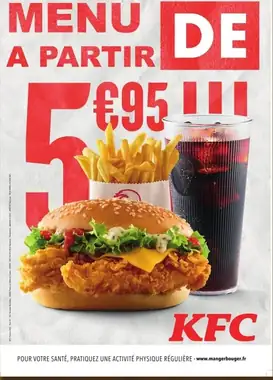
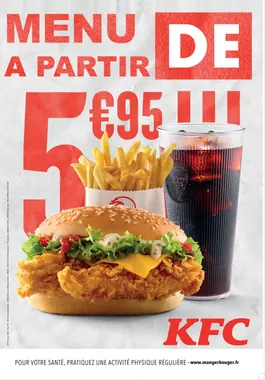
Mise à jour du portfolio : CoTrajet, Flav'ours, affiche KFC, chargement de l'intro
- CoTrajet : écran de l'appli en fond de carte et écrans de la maquette Figma
- Flav'ours : présentoir et barre ajoutés
- Affiche KFC recadrée avec plus d'espace en haut
- Intro : modules 3D préchargés, bouton affiché seulement quand l'animation est prête

Claude-Session: https://claude.ai/code/session_01Y7SZ1997JbTfstZ2EQgUPZ

diff --git a/index.html b/index.html
@@ -114,6 +114,8 @@ h1,h2,h3{font-family:'Bodoni Moda',Didot,'Times New Roman',serif;font-style:ital
 .proto b{font:italic 700 30px/1 'Bodoni Moda',serif}
 .proto .pnote{font-size:14px;line-height:1.45;color:var(--mute)}
 .proto .pgo{margin-top:auto;font-weight:600;color:var(--pink)}
+.proto.bgimg{justify-content:flex-end;overflow:hidden;background:linear-gradient(180deg,#0e081f00 50%,#0e081fc4 70%,#0e081ff2 86%),var(--bgi) center top/cover no-repeat,#1a1236!important}
+.proto.bgimg .lbl{margin-top:auto}.proto.bgimg .pnote{display:none}.proto.bgimg .pgo{margin-top:6px}
 .card{padding:20px;display:flex!important;flex-direction:column;gap:10px;height:auto!important;min-height:var(--h);background:#f7eef3!important;color:#1a1430}
 .card b{font:italic 700 28px/1 'Bodoni Moda',serif}
 .card p{margin:0;font-size:14.5px;line-height:1.5;color:#4a4060}
@@ -384,10 +386,18 @@ html.introlock,html.introlock body{overflow:hidden}
 .intro:not(.has3d):not(.nofx) .i-sky,.intro:not(.has3d):not(.nofx) .i-ground,.intro:not(.has3d):not(.nofx) .i-car,.intro:not(.has3d):not(.nofx) .i-lines{visibility:hidden}
 .intro:not(.has3d):not(.nofx){background:radial-gradient(120% 80% at 50% 38%,#2a1048 0%,#120a2a 55%,#07050f 100%)}
 .i-3d{position:absolute;inset:0;width:100%;height:100%;display:block;z-index:1;opacity:0;transition:opacity .9s ease}
+.i-go,.i-hint,.i-skip{transition:opacity .6s ease .35s,transform .6s ease .35s}
+.intro:not(.has3d):not(.nofx):not(.slow) .i-go,.intro:not(.has3d):not(.nofx):not(.slow) .i-hint,.intro:not(.has3d):not(.nofx):not(.slow) .i-skip{opacity:0;transform:translateY(8px);pointer-events:none;visibility:hidden}
+.i-load{position:absolute;left:50%;bottom:22%;transform:translateX(-50%);display:flex;flex-direction:column;align-items:center;gap:10px;font:400 10px/1 Michroma,sans-serif;color:#f7eef399;letter-spacing:.08em;transition:opacity .5s;pointer-events:none;z-index:4}
+.i-load i{display:block;width:120px;height:2px;border-radius:2px;background:#f7eef322;overflow:hidden;position:relative}
+.i-load i::after{content:"";position:absolute;inset:0;width:40%;background:linear-gradient(90deg,#ff8cbf,#6fe3d6);animation:iload 1.1s ease-in-out infinite}
+@keyframes iload{0%{transform:translateX(-100%)}100%{transform:translateX(260%)}}
+.intro.has3d .i-load,.intro.nofx .i-load,.intro.slow .i-load{opacity:0}
 .intro.has3d .i-3d{opacity:1}
 .intro.has3d .i-sky,.intro.has3d .i-ground,.intro.has3d .i-car,.intro.has3d .i-lines{visibility:hidden}
 .intro.has3d .i-text{text-shadow:0 2px 20px #0b0820}
 </style></head><body>
+<link rel="preconnect" href="https://cdn.jsdelivr.net" crossorigin>
 <script type="importmap">{"imports":{"three":"https://cdn.jsdelivr.net/npm/three@0.160.0/build/three.module.min.js","three/addons/":"https://cdn.jsdelivr.net/npm/three@0.160.0/examples/jsm/"}}</script>
 <div class="intro" id="intro" role="dialog" aria-label="Page d'entrée">
 <div class="i-sky"><div class="i-sun"><i></i></div><div class="i-mtn e"></div><div class="i-mtn b"></div></div>
@@ -411,7 +421,7 @@ html.introlock,html.introlock body{overflow:hidden}
 </svg></div>
 <div class="i-text"><span class="lbl">Portfolio</span><h1>Tonio Cocco</h1><p>Communication visuelle et réalisation graphique</p>
 <button class="i-go" id="igo">Aller au portfolio <b><svg viewBox="0 0 24 24" fill="none" stroke="currentColor" stroke-width="2.4" stroke-linecap="round"><path d="M5 12h14M13 6l6 6-6 6"/></svg></b></button><span class="i-hint">ou appuyez sur Entrée</span></div>
-<button class="i-skip" id="iskip">Passer l'intro</button><button class="i-snd off" id="isnd" hidden aria-label="Activer ou couper le son de l'intro"><svg viewBox="0 0 24 24" fill="none" stroke="currentColor" stroke-width="1.8" stroke-linecap="round" stroke-linejoin="round" aria-hidden="true"><path d="M4 9v6h4l5 4V5L8 9H4z" fill="currentColor" stroke="none"/><path class="w1" d="M16 9.5a4 4 0 0 1 0 5"/><path class="w2" d="M18.5 7a7.5 7.5 0 0 1 0 10"/><path class="x" d="M16 9l5 6M21 9l-5 6"/></svg><span>Activer le son</span></button>
+<div class="i-load" aria-hidden="true"><i></i>Chargement de l'intro</div><button class="i-skip" id="iskip">Passer l'intro</button><button class="i-snd off" id="isnd" hidden aria-label="Activer ou couper le son de l'intro"><svg viewBox="0 0 24 24" fill="none" stroke="currentColor" stroke-width="1.8" stroke-linecap="round" stroke-linejoin="round" aria-hidden="true"><path d="M4 9v6h4l5 4V5L8 9H4z" fill="currentColor" stroke="none"/><path class="w1" d="M16 9.5a4 4 0 0 1 0 5"/><path class="w2" d="M18.5 7a7.5 7.5 0 0 1 0 10"/><path class="x" d="M16 9l5 6M21 9l-5 6"/></svg><span>Activer le son</span></button>
 </div>
 <script>
 {
@@ -420,9 +430,10 @@ html.introlock,html.introlock body{overflow:hidden}
   const done = () => { it.classList.add('out'); root.classList.remove('introlock'); window.__intro3d?.stop(); setTimeout(() => it.remove(), 800); };
   if (h && h !== 'top') { it.remove(); } else {
     root.classList.add('introlock');
-    { const l = document.createElement('link'); l.rel = 'modulepreload'; l.crossOrigin = ''; l.href = 'https://cdn.jsdelivr.net/npm/three@0.160.0/build/three.module.min.js'; document.head.append(l); import('./intro3d.js').catch(() => it.classList.add('nofx')); setTimeout(() => { if (!it.classList.contains('has3d')) it.classList.add('nofx'); }, 9000); }
+    { const J = 'https://cdn.jsdelivr.net/npm/three@0.160.0/examples/jsm/'; ['https://cdn.jsdelivr.net/npm/three@0.160.0/build/three.module.min.js','intro3d.js',J + 'postprocessing/EffectComposer.js',J + 'postprocessing/RenderPass.js',J + 'postprocessing/UnrealBloomPass.js',J + 'postprocessing/ShaderPass.js',J + 'postprocessing/OutputPass.js',J + 'postprocessing/Pass.js',J + 'postprocessing/MaskPass.js',J + 'shaders/CopyShader.js',J + 'shaders/LuminosityHighPassShader.js',J + 'shaders/OutputShader.js',J + 'geometries/RoundedBoxGeometry.js',J + 'objects/Reflector.js'].forEach(u => { const l = document.createElement('link'); l.rel = 'modulepreload'; l.crossOrigin = ''; l.href = u; document.head.append(l); }); import('./intro3d.js').catch(() => it.classList.add('nofx')); setTimeout(() => { if (!it.classList.contains('has3d')) it.classList.add('slow'); }, 12000); }
     const red = matchMedia('(prefers-reduced-motion: reduce)').matches;
-    const go = () => { if (it.classList.contains('go')) return; if (red) return done(); it.classList.add('go'); const d3 = window.__intro3d; if (d3) d3.nitro(); setTimeout(done, d3 ? 1900 : 1450); };
+    const ready = () => it.classList.contains('has3d') || it.classList.contains('nofx') || it.classList.contains('slow');
+    const go = () => { if (it.classList.contains('go') || !ready()) return; if (red) return done(); it.classList.add('go'); const d3 = window.__intro3d; if (d3) d3.nitro(); setTimeout(done, d3 ? 1900 : 1450); };
     document.getElementById('igo').addEventListener('click', go);
     document.getElementById('iskip').addEventListener('click', done);
     addEventListener('keydown', e => { if (document.getElementById('intro') && (e.key === 'Enter' || e.key === ' ') && !it.classList.contains('go')) { e.preventDefault(); go(); } });
@@ -486,14 +497,14 @@ html.introlock,html.introlock body{overflow:hidden}
 
 <script>
 {
-const AR = {"samourai-pixel":0.667,"samourai-ecran-titre":0.75,"samourai-boss":0.667,"samourai-cochon":0.667,"samourai-champignon":0.667,"samourai-poisson":0.667,"samourai-torii":1.5,"samourai-decor":1.5,"colonel-forest":0.707,"musee-fabi":0.598,"storyboard-banc":1.399,"lyon":1.407,"barret":.707,"croquis":1.452,"demon":.791,"dragon":.791,"embuscade-1":1.415,"embuscade-2":1.415,"embuscade-3":1.415,"embuscade-4":1.415,"embuscade-5":1.415,"embuscade-6":1.415,"flavours":.794,"hypnesia":.71,"indonesie":.502,"kfc":.718,"mclaren":.707,"moodboard-mexique":1.406,"moodboard-musique":1.406,"moodboard-surrealisme-1":1.778,"moodboard-surrealisme-2":1.778,"nebula":.707,"photo":.834,"portrait-crayon":.797,"printemps-culture":.73,"samourai-mockup":.669,"samourai-newsletter-1":.402,"samourai-newsletter-2":.404,"samourai":.791};
+const AR = {"cotrajet-chargement":0.462,"cotrajet-accueil":0.462,"cotrajet-trajets":0.387,"cotrajet-detail":0.317,"cotrajet-conducteur":0.389,"cotrajet-favoris":0.41,"cotrajet-proposer":0.343,"cotrajet-parametres":0.389,"cotrajet-ecran":0.468,"flavours-presentoir":0.988,"flavours-barre":2.18,"samourai-pixel":0.667,"samourai-ecran-titre":0.75,"samourai-boss":0.667,"samourai-cochon":0.667,"samourai-champignon":0.667,"samourai-poisson":0.667,"samourai-torii":1.5,"samourai-decor":1.5,"colonel-forest":0.707,"musee-fabi":0.598,"storyboard-banc":1.399,"lyon":1.407,"barret":.707,"croquis":1.452,"demon":.791,"dragon":.791,"embuscade-1":1.415,"embuscade-2":1.415,"embuscade-3":1.415,"embuscade-4":1.415,"embuscade-5":1.415,"embuscade-6":1.415,"flavours":.794,"hypnesia":.71,"indonesie":.502,"kfc":0.698,"mclaren":.707,"moodboard-mexique":1.406,"moodboard-musique":1.406,"moodboard-surrealisme-1":1.778,"moodboard-surrealisme-2":1.778,"nebula":.707,"photo":.834,"portrait-crayon":.797,"printemps-culture":.73,"samourai-mockup":.669,"samourai-newsletter-1":.402,"samourai-newsletter-2":.404,"samourai":.791};
 const P = {
  nebula:{t:'Nebula',c:'Affiche',x:'Affiche publicitaire · projet BUT MMI, IUT de Béziers',y:'2026',w:"Une affiche publicitaire pour une boisson énergisante fictive, avec un mouvement artistique à choisir : j'ai pris le surréalisme.",h:"Avant d'y parvenir, j'ai d'abord réalisé un moodboard, « Réellement irréel », pour détailler ce mouvement. L'affiche en est la suite logique, et tout le visuel est construit autour de ce thème.",a:"",i:['nebula'],rel:['surrealisme',"Avant l'affiche · étape 1",'Voir le moodboard']},
- flavours:{t:"Flav'ours",c:'Identité visuelle',x:'Projet de groupe · cours de gestion de projet',y:'',w:"",h:"En cours de gestion de projet, nous avons dû concevoir en groupe une barre chocolatée protéinée, en respectant les critères précis d'un commanditaire. De mon côté, je me suis occupé de toute la partie visuelle : j'ai composé la maquette sur Illustrator, puis ajouté les textures, les effets et le rendu final sur Photoshop.",a:"",i:['flavours']},
+ flavours:{t:"Flav'ours",c:'Identité visuelle',x:'Projet de groupe · cours de gestion de projet',y:'',w:"",h:"En cours de gestion de projet, nous avons dû concevoir en groupe une barre chocolatée protéinée, en respectant les critères précis d'un commanditaire. De mon côté, je me suis occupé de toute la partie visuelle : j'ai composé la maquette sur Illustrator, puis ajouté les textures, les effets et le rendu final sur Photoshop.",a:"",i:['flavours','flavours-presentoir','flavours-barre']},
  embuscade:{t:'Embuscade',c:'Audiovisuel',x:"SAÉ · storyboard d'un extrait de film",y:'',w:"",h:"Ce projet était une SAÉ, une évaluation menée sur une semaine : nous devions imaginer l'histoire d'un film, puis en tourner un extrait d'environ 5 minutes dans lequel un objet est mis en avant, comme un placement de produit. Le nôtre était une montre Rolex, en réalité une réplique. J'ai joué le rôle principal, et j'ai réalisé le storyboard à la main avant de le retravailler à l'aide de l'IA, pour le rendre plus propre et numérique.",a:"",i:['embuscade-1','embuscade-2','embuscade-3','embuscade-4','embuscade-5','embuscade-6']},
  banc:{t:'Émile et Arthur',c:'Audiovisuel',x:"Storyboard d'un extrait publicitaire · dessiné à la main",y:'',w:"",h:"Nous devions tourner un extrait de film publicitaire pour un téléphone. Je me suis occupé du storyboard, et j'ai aussi été l'un des acteurs principaux de l'extrait.",a:"",i:['storyboard-banc']},
  samourai:{t:'Samouraï, le monde éveillé',c:'Digital',x:'SAÉ · jeu vidéo et direction artistique',y:'',w:"",h:"Ce projet était une SAÉ, cette fois menée sur deux semaines : la première pour concevoir un jeu vidéo (game design), la seconde pour créer toute sa direction artistique et son identité graphique. Pour conclure, nous devions décliner cette identité sur plusieurs supports : une newsletter de lancement (−15 %, avis de joueurs, maps) et une affiche, mise en situation sur le mockup d'un abribus. Tout est aussi parti de mes dessins au crayon à papier : la tête du samouraï, d'où est née la création de notre personnage principal, le boss principal que nous avons imaginé, et une planche de croquis qui rassemble les objets du jeu, ensuite convertis en pixel art pour les intégrer dans notre monde. Les illustrations qui suivent montrent l'écran d'accueil du jeu, son univers, le samouraï en pixel art, le boss, ainsi que les créatures et les éléments du décor.",a:"",i:['samourai-mockup','samourai-newsletter-1','samourai-newsletter-2','samourai','demon','croquis','samourai-ecran-titre','samourai-decor','samourai-pixel','samourai-boss','samourai-cochon','samourai-champignon','samourai-poisson','samourai-torii'],ic:{3:['Samouraï','Dessin · personnage du jeu'],4:['Méchant imaginaire','Dessin · boss du jeu'],5:['Croquis','Dessin · objets du jeu'],6:["Écran d'accueil",'Samouraï, le monde éveillé'],7:['Univers du jeu','Samouraï, le monde éveillé'],8:['Samouraï en pixel art','Samouraï, le monde éveillé']}},
- cotrajet:{t:'CoTrajet',c:'UI & prototypage',x:"Maquette d'application mobile · Figma",y:'',w:"",h:"En cours d'UI et de prototypage, nous avons dû concevoir la maquette d'une application mobile en suivant les consignes du professeur. Le but n'était pas de se concentrer sur l'esthétique, mais sur les composants, et de faire en sorte que de nombreuses pages et boutons soient correctement reliés entre eux.",a:"",i:[],link:'https://www.figma.com/design/GuC5XFnj12Qt0iA51HTEhI/CoTrajet---Tonio-COCCO?node-id=3-69'},
+ cotrajet:{t:'CoTrajet',c:'UI & prototypage',x:"Maquette d'application mobile · Figma",y:'',w:"",h:"En cours d'UI et de prototypage, nous avons dû concevoir la maquette d'une application mobile en suivant les consignes du professeur. Le but n'était pas de se concentrer sur l'esthétique, mais sur les composants, et de faire en sorte que de nombreuses pages et boutons soient correctement reliés entre eux.",a:"",i:['cotrajet-ecran','cotrajet-chargement','cotrajet-accueil','cotrajet-trajets','cotrajet-detail','cotrajet-conducteur','cotrajet-favoris','cotrajet-proposer','cotrajet-parametres'],proto:1,link:'https://www.figma.com/design/GuC5XFnj12Qt0iA51HTEhI/CoTrajet---Tonio-COCCO?node-id=3-69'},
  hypnesia:{t:'Hypnesia',c:'Affiche',x:'Hackathon · avec un commanditaire',y:'',w:"",h:"J'ai réalisé cette affiche lors d'un hackathon : un défi créatif en équipe, sur un temps très court, où l'on doit répondre à la demande d'un vrai commanditaire. Le nôtre était une entreprise qui conçoit des casques de réalité virtuelle.",a:"",i:['hypnesia']},
  kfc:{t:'Affiche KFC',c:'Affiche',x:'Affiche publicitaire · alternance chez AG Service',y:'',w:"",h:"Une affiche typique de celles que je réalisais pour KFC pendant mon alternance chez AG Service : un format classique, que j'avais l'habitude de concevoir au quotidien.",a:"",i:['kfc']},
  barret:{t:'Affiche de basket',c:'Travaux perso',x:"Photomontage · affiche d'après-match",y:'',w:"",h:"J'ai réalisé ce photomontage pour mon petit cousin, qui joue au basket en club : une affiche d'après-match qui reprend ses statistiques et ses points du jour.",a:"",i:['barret']},
@@ -549,7 +560,7 @@ const esc = s => String(s ?? '').replace(/[&<>"']/g, c => ({'&':'&amp;','<':'&lt
 const src = n => 'img/' + n + '.webp';
 const tsrc = n => 'img/t/' + n + '.webp';
 const ssrc = n => 'img/s/' + n + '.webp';
-const COL = {"samourai-pixel": "#d3c9ca", "samourai-ecran-titre": "#66697b", "samourai-boss": "#d9d9d9", "samourai-cochon": "#e1eaf5", "samourai-champignon": "#e9eaf6", "samourai-poisson": "#e7e6f7", "samourai-torii": "#eeded7", "samourai-decor": "#743b29", "hypnesia": "#5c5963", "samourai": "#d4d5d3", "moodboard-mexique": "#6b433e", "demon": "#dbdcdb", "embuscade-1": "#ebebeb", "samourai-newsletter-1": "#776397", "samourai-mockup": "#5a333e", "storyboard-banc": "#bebdb7", "dragon": "#9f8c81", "samourai-newsletter-2": "#6f539a", "photo": "#705d4d", "croquis": "#efefef", "embuscade-6": "#dadada", "mclaren": "#564536", "moodboard-surrealisme-1": "#c6a892", "kfc": "#cc9d8f", "moodboard-musique": "#b09373", "indonesie": "#818357", "portrait-crayon": "#b8b8ae", "nebula": "#424150", "embuscade-3": "#e9e9e9", "lyon": "#36505d", "colonel-forest": "#4f5742", "embuscade-5": "#ececec", "embuscade-2": "#ececec", "musee-fabi": "#9fa8a7", "printemps-culture": "#b38e6c", "embuscade-4": "#ededed", "barret": "#ac6e72", "moodboard-surrealisme-2": "#6c706e", "flavours": "#8d4645"};
+const COL = {"cotrajet-chargement": "#c9a4bd", "cotrajet-accueil": "#a8a6c5", "cotrajet-trajets": "#7e87cd", "cotrajet-detail": "#9998bf", "cotrajet-conducteur": "#cdb1b7", "cotrajet-favoris": "#cdb0b5", "cotrajet-proposer": "#9180ab", "cotrajet-parametres": "#3e4396", "cotrajet-ecran": "#9a97bb", "flavours-presentoir": "#c6a3a3", "flavours-barre": "#a6817d", "samourai-pixel": "#d3c9ca", "samourai-ecran-titre": "#66697b", "samourai-boss": "#d9d9d9", "samourai-cochon": "#e1eaf5", "samourai-champignon": "#e9eaf6", "samourai-poisson": "#e7e6f7", "samourai-torii": "#eeded7", "samourai-decor": "#743b29", "hypnesia": "#5c5963", "samourai": "#d4d5d3", "moodboard-mexique": "#6b433e", "demon": "#dbdcdb", "embuscade-1": "#ebebeb", "samourai-newsletter-1": "#776397", "samourai-mockup": "#5a333e", "storyboard-banc": "#bebdb7", "dragon": "#9f8c81", "samourai-newsletter-2": "#6f539a", "photo": "#705d4d", "croquis": "#efefef", "embuscade-6": "#dadada", "mclaren": "#564536", "moodboard-surrealisme-1": "#c6a892", "kfc": "#cc9d8f", "moodboard-musique": "#b09373", "indonesie": "#818357", "portrait-crayon": "#b8b8ae", "nebula": "#424150", "embuscade-3": "#e9e9e9", "lyon": "#36505d", "colonel-forest": "#4f5742", "embuscade-5": "#ececec", "embuscade-2": "#ececec", "musee-fabi": "#9fa8a7", "printemps-culture": "#b38e6c", "embuscade-4": "#ededed", "barret": "#ac6e72", "moodboard-surrealisme-2": "#6c706e", "flavours": "#8d4645"};
 const SIZES = '(max-width:900px) 170px, 260px';
 const srcs = n => `src="${ssrc(n)}" srcset="${ssrc(n)} 380w, ${tsrc(n)} 560w" sizes="${SIZES}"`;
 const ic = p => `<svg viewBox="0 0 24 24" fill="none" stroke="currentColor" stroke-width="2" stroke-linecap="round" stroke-linejoin="round" aria-hidden="true"><path d="${p}"/></svg>`;
@@ -586,13 +597,13 @@ function itemSpec(s){
   if (s === 'card:hello') return {kind:'hello', ar:.78, cap:''};
   if (s.startsWith('tool:')) return {kind:'tool', ar:1.05, n:+s.slice(5)};
   const [id, ix] = s.split(':'); const p = P[id], i = ix ? +ix : 0;
-  if (!p.i.length) return {kind:'proto', id, i:0, ar:.52, cap:p.t, sub:p.c};
+  if (!p.i.length || p.proto) return {kind:'proto', id, i:0, ar:.52, cap:p.t, sub:p.c, bg:p.i[0]};
   if (ix && p.ic && p.ic[i]) return {kind:'img', id, i, ar:AR[p.i[i]], img:p.i[i], cap:p.ic[i][0], sub:p.ic[i][1]};
   return {kind:'img', id, i, ar:AR[p.i[i]], img:p.i[i], cap:p.t, sub:ix ? (id === 'embuscade' ? 'Planche ' + (i + 1) + ' / 6' : 'Visuel ' + (i + 1)) : p.c + (id === 'embuscade' ? ' · 6 planches' : '')};
 }
 function inner(sp){
   if (sp.kind === 'img') return `<span class="fr" style="height:var(--h);background:${COL[sp.img] || '#2a2040'}"><img ${srcs(sp.img)} alt="${esc(sp.cap)}" loading="${sp.eager ? 'eager' : 'lazy'}" ${sp.eager ? 'fetchpriority="high"' : 'decoding="async"'}></span><span class="cap">${esc(sp.cap)}<small>${esc(sp.sub)}</small></span>`;
-  if (sp.kind === 'proto') return `<span class="fr proto" style="height:var(--h)"><span class="lbl">Maquette Figma</span><b>${esc(sp.cap)}</b><span class="pnote">Application mobile : composants, pages et boutons reliés.</span><span class="pgo">Ouvrir le projet →</span></span><span class="cap">${esc(sp.cap)}<small>${esc(sp.sub)}</small></span>`;
+  if (sp.kind === 'proto') return `<span class="fr proto${sp.bg ? ' bgimg' : ''}" style="height:var(--h)${sp.bg ? `;--bgi:url(${tsrc(sp.bg)})` : ''}"><span class="lbl">Maquette Figma</span><b>${esc(sp.cap)}</b><span class="pnote">Application mobile : composants, pages et boutons reliés.</span><span class="pgo">Ouvrir le projet →</span></span><span class="cap">${esc(sp.cap)}<small>${esc(sp.sub)}</small></span>`;
   if (sp.kind === 'photo') return `<span class="fr polar" style="height:var(--h)"><img src="${tsrc('photo')}" alt="Tonio Cocco" fetchpriority="high"><span class="lbl">Mon profil →</span></span>`;
   if (sp.kind === 'hello') return `<span class="fr card" style="height:var(--h)"><b>Bonjour,</b><p>Je suis Tonio, étudiant en communication visuelle et réalisation graphique, et passionné de voyages.</p></span>`;
   const [a, n, s, bg, fg] = TOOLS[sp.n];
